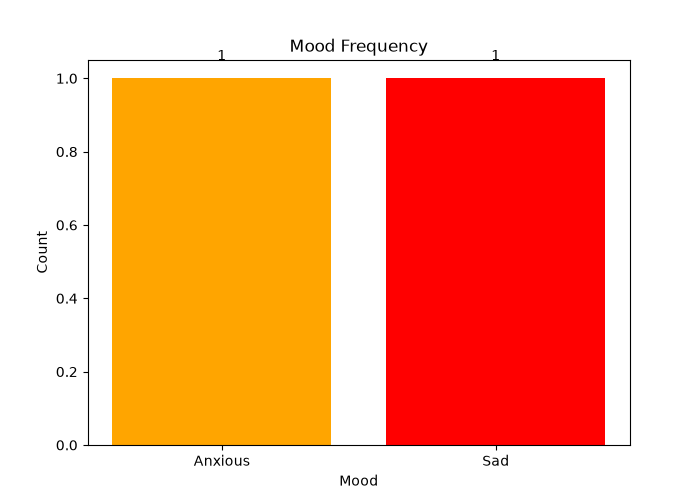
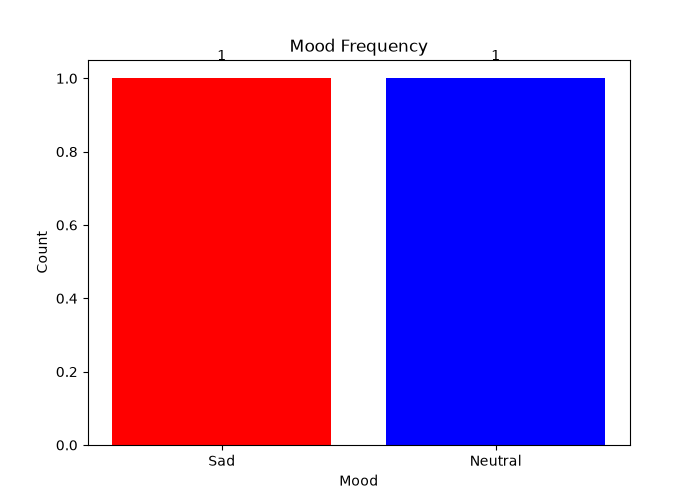
Week 2 - Emotion Detection and Graph Analysis

diff --git a/utils/emotion.py b/utils/emotion.py
@@ -1,0 +1,45 @@
+from transformers import pipeline
+
+emotion_classifier = pipeline(
+    task="text-classification",
+    model="j-hartmann/emotion-english-distilroberta-base",
+    top_k=1
+)
+
+emotion_data = {
+    "joy": {
+        "emoji": "😊",
+        "message": "Keep doing what makes you happy!"
+    },
+    "sadness": {
+        "emoji": "😢",
+        "message": "Remember, difficult days don't last forever. Consider talking to someone you trust."
+    },
+    "fear": {
+        "emoji": "😨",
+        "message": "It's okay to feel nervous sometimes. Take a few deep breaths and focus on one step at a time."
+    },
+    "anger": {
+        "emoji": "😠",
+        "message": "Take a short break before reacting. Calmness helps in making better decisions."
+    },
+    "love": {
+        "emoji": "❤️",
+        "message": "Cherish the positive relationships in your life."
+    },
+    "surprise": {
+        "emoji": "😲",
+        "message": "Unexpected moments can become valuable learning experiences."
+    }
+}
+
+def detect_emotion(text):
+    result = emotion_classifier(text)
+
+    emotion = result[0][0]["label"]
+    confidence = result[0][0]["score"]
+
+    emoji = emotion_data[emotion]["emoji"]
+    suggestion = emotion_data[emotion]["message"]
+
+    return emotion, confidence, emoji, suggestion

diff --git a/utils/emotion_graph.py b/utils/emotion_graph.py
@@ -1,0 +1,33 @@
+import pandas as pd
+import matplotlib.pyplot as plt
+
+# Read the CSV file
+df = pd.read_csv("data/mood_dataset.csv")
+
+# Count emotions
+emotion_counts = df["Emotion"].value_counts()
+
+# -------- Bar Chart --------
+plt.figure(figsize=(7,5))
+emotion_counts.plot(kind="bar")
+
+plt.title("Emotion Distribution")
+plt.xlabel("Emotion")
+plt.ylabel("Count")
+
+plt.tight_layout()
+plt.savefig("outputs/emotion_bar_chart.png")
+plt.close()
+
+# -------- Pie Chart --------
+plt.figure(figsize=(6,6))
+emotion_counts.plot(kind="pie", autopct="%1.1f%%")
+
+plt.ylabel("")
+plt.title("Emotion Distribution")
+
+plt.tight_layout()
+plt.savefig("outputs/emotion_pie_chart.png")
+plt.close()
+
+print("✅ Emotion graphs generated successfully!")

diff --git a/app.py b/app.py
@@ -1,12 +1,23 @@
 from utils.sentiment import predict_mood
 from datetime import datetime
 import csv
+from utils.emotion import detect_emotion
 
 print("=" * 50)
 print("      Intelligent Mental Health Companion")
 print("=" * 50)
 
 text = input("\nHow are you feeling today?\n> ")
+emotion, confidence, emoji, suggestion = detect_emotion(text)
+
+print("\nEmotion Detected")
+print("-" * 30)
+print(f"Emotion    : {emoji} {emotion.capitalize()}")
+print(f"Confidence : {confidence*100:.2f}%")
+
+print("\nSuggestion")
+print("-" * 30)
+print(suggestion)
 
 mood, score = predict_mood(text)
 emoji = {
@@ -34,11 +45,17 @@ else:
     print("\n😌 You seem calm today. Wishing you a wonderful day!")
 
 # Save data to CSV
-date = datetime.now()
+date = datetime.now().strftime("%Y-%m-%d %H:%M:%S")
 
-with open("data/mood_dataset.csv", mode="a", newline="") as file:
+with open("data/mood_dataset.csv", mode="a", newline="", encoding="utf-8") as file:
     writer = csv.writer(file)
 
-    writer.writerow([date, mood, score])
+    writer.writerow([
+        date,
+        mood,
+        score,
+        emotion,
+        round(confidence, 4)
+    ])
 
-print("\n✅ Mood data saved successfully.")
+print("\n✅ Mood and Emotion data saved successfully.")

diff --git a/test_emotion.py b/test_emotion.py
@@ -1,0 +1,18 @@
+from utils.emotion import detect_emotion
+
+print("=" * 50)
+print(" Intelligent Mental Health Companion")
+print("=" * 50)
+
+text = input("How are you feeling today?\n> ")
+
+emotion, confidence, emoji, suggestion = detect_emotion(text)
+
+print("\nEmotion Detected")
+print("-" * 30)
+print(f"Emotion    : {emoji} {emotion.capitalize()}")
+print(f"Confidence : {confidence * 100:.2f}%")
+
+print("\nSuggestion")
+print("-" * 30)
+print(suggestion)